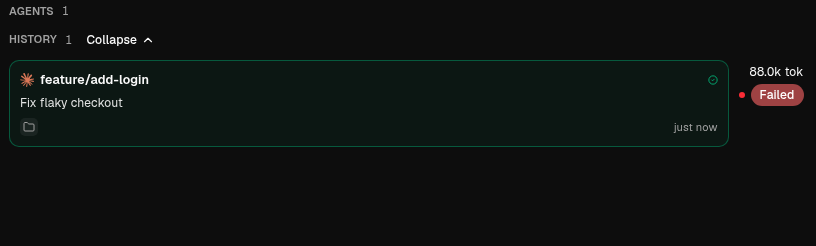
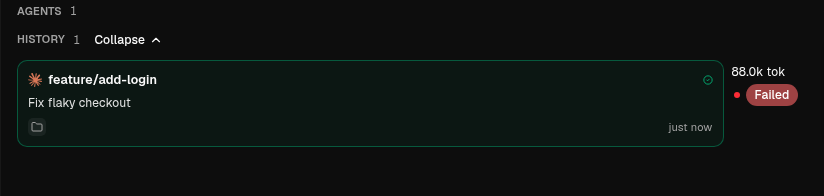
fix(task-workbench): 等宽 agent 行，pill 移到卡片上方，右列只留 token
上游 renderer 一处窄修（orca/ 层单文件）。原行布局是 `card(flex-1) + overlay(auto 宽度)`：带 workspace
pill 的行把卡片挤窄、不带的行不挤，卡片宽度参差不齐，token 文本又贴着列边、落在面板底色上。

- 未改共享组件 `AgentKanbanCard`（dashboard 也在用）：仍以它为 base，overlay 留在 renderer。
- workspace pill 改到卡片上方单独一行（`w-fit max-w-full`），行级事实不再占卡片宽度。
- 卡片右侧保留固定窄列 `w-20 shrink-0`，只放 token / 状态点 / outcome 徽标；token 加 `truncate`，
  列内左对齐，紧贴卡片（原来右对齐 + auto 宽度造成 26px 空隙与参差）。
- 截图同步重出：f1/f3/f8 + 900×700 + 1280×479 五次运行全 PASS，替换 ui/impl-agents-*、
  impl-narrow-single、impl-short-viewport；§7.4.1 限制第 2 条与 §12 从"未修缺陷"改为"已修"。

证据：定向 vitest `src/renderer/src/components/task-workbench` 4 文件 95 passed；`tsc -p
config/tsconfig.tc.web.json` exit 0；oxlint 改动文件干净；harness 5/5 PASS。
未做：真机复核（本机无 GUI），prettier 未安装（该 checkout 无 node_modules/prettier）。

diff --git a/orca/src/renderer/src/components/task-workbench/TaskWorkbenchAgentRow.tsx b/orca/src/renderer/src/components/task-workbench/TaskWorkbenchAgentRow.tsx
@@ -63,43 +63,51 @@ export function TaskWorkbenchAgentRow({ row }: { row: TaskWorkbenchRowView }): R
     : translate(rowKeys('tokens'), '{{value0}} tok', { value0: row.tokenText.text })
 
   return (
-    <div data-testid="task-workbench-agent-row" className="flex min-w-0 items-start gap-2">
-      <div className="min-w-0 flex-1">
-        <AgentKanbanCard card={row.base} now={now} onOpenTerminal={noop} />
-      </div>
-      <div className="flex shrink-0 flex-col items-end gap-1 pt-1">
-        {row.workspaceLabel ? (
-          <Badge
-            data-testid="task-workbench-agent-row-workspace-pill"
-            variant="outline"
-            className="max-w-40"
-          >
-            <span aria-hidden="true">▦</span>
-            <span className="min-w-0 truncate">{row.workspaceLabel}</span>
-          </Badge>
-        ) : null}
-        <span
-          data-testid="task-workbench-agent-row-tokens"
-          className={cn(
-            'text-xs tabular-nums',
-            row.tokenText.unavailable ? 'text-muted-foreground' : 'text-foreground'
-          )}
+    <div data-testid="task-workbench-agent-row" className="flex min-w-0 flex-col gap-1">
+      {/* Why the pill sits on its own line: the overlay is a sibling of the card,
+          so a pill inside the meta column changed every row's card width (rows
+          with a workspace pill squeezed the card, rows without one did not) and
+          the token text ended up flush against the column edge. Row-level facts
+          go above the card; only the short numeric/badge column stays beside it,
+          and that column is a fixed narrow width so all cards align. */}
+      {row.workspaceLabel ? (
+        <Badge
+          data-testid="task-workbench-agent-row-workspace-pill"
+          variant="outline"
+          className="w-fit max-w-full"
         >
-          {tokenLabel}
-        </span>
-        {row.outcome || row.sessionBoundary ? (
-          <div className="flex items-center gap-1">
-            <TaskWorkbenchAgentRowDot row={row} />
-            {row.outcome ? (
-              <Badge
-                data-testid="task-workbench-agent-row-outcome"
-                variant={OUTCOME_VARIANT[row.outcome]}
-              >
-                {translate(rowKeys(`outcome.${row.outcome}`), OUTCOME_COPY[row.outcome])}
-              </Badge>
-            ) : null}
-          </div>
-        ) : null}
+          <span aria-hidden="true">▦</span>
+          <span className="min-w-0 truncate">{row.workspaceLabel}</span>
+        </Badge>
+      ) : null}
+      <div className="flex min-w-0 items-start gap-2">
+        <div className="min-w-0 flex-1">
+          <AgentKanbanCard card={row.base} now={now} onOpenTerminal={noop} />
+        </div>
+        <div className="flex w-20 shrink-0 flex-col items-start gap-1 pt-1">
+          <span
+            data-testid="task-workbench-agent-row-tokens"
+            className={cn(
+              'max-w-full truncate text-xs tabular-nums',
+              row.tokenText.unavailable ? 'text-muted-foreground' : 'text-foreground'
+            )}
+          >
+            {tokenLabel}
+          </span>
+          {row.outcome || row.sessionBoundary ? (
+            <div className="flex min-w-0 items-center gap-1">
+              <TaskWorkbenchAgentRowDot row={row} />
+              {row.outcome ? (
+                <Badge
+                  data-testid="task-workbench-agent-row-outcome"
+                  variant={OUTCOME_VARIANT[row.outcome]}
+                >
+                  {translate(rowKeys(`outcome.${row.outcome}`), OUTCOME_COPY[row.outcome])}
+                </Badge>
+              ) : null}
+            </div>
+          ) : null}
+        </div>
       </div>
     </div>
   )

diff --git a/swarm/docs/design/task-workbench/README.md b/swarm/docs/design/task-workbench/README.md
@@ -462,7 +462,7 @@ DISPLAY=:99 ORCA_BACKGROUND_LAUNCH=1 node tests/tools/task-workbench-rendered/ru
 | 功能区 | 图 | 来源（fixture · 视口） | 这张图能证明什么 |
 | --- | --- | --- | --- |
 | Header | `ui/impl-header.png` | f1_baseline · 1440×900 | 标题、`GitHub acme/web-app open` 身份行、`web-app feature/add-login PR #431 draft` 默认工作区行、唯一主动作 `Open workspace` |
-| Agents（分组） | `ui/impl-agents-groups.png` | f3_many_workspaces_agents · 1440×1200 | `Active 4` + `Needs you 1` 两组（`History 5` 见下一张）、每行带所属工作区 pill / `N subagent` / `just now`；逐 Agent 只有 token |
+| Agents（分组） | `ui/impl-agents-groups.png` | f3_many_workspaces_agents · 1440×1200 | `Active 4` + `Needs you 1` 两组（`History 5` 见下一张）；workspace pill 在卡片上方一行，右侧窄列只有 token；`N subagent` / `just now` 在卡片内 |
 | Agents（失败轮） | `ui/impl-agents-failure.png` | f8_failure_outcome · 1440×900 | History 行带红色 `Failed` 徽标、状态点变 failed；语义上不出现 Delivered |
 | Workspaces | `ui/impl-workspaces.png` | f1_baseline · 1440×900 | 工作区卡：`web-app · feature/add-login · Default`、`local` host chip、`Create workspace` |
 | Spend | `ui/impl-spend.png` | f1_baseline · 1440×900 | `1.3M tokens · —`（有未定价模型）、逐 provider（`claude … est. $1.20` / `codex … —`），未知不写 0 |
@@ -513,10 +513,10 @@ DISPLAY=:99 ORCA_BACKGROUND_LAUNCH=1 node tests/tools/task-workbench-rendered/ru
 
 1. 这些是 **fixture 数据**的渲染：不经过 store、selector、RPC、持久化，也不切 locale（`i18n.ts` 给英文默认值）。
    它证明的是"组件按这份 view 数据会画成什么样"，不是"真机打开一个任务会看到什么"。
-2. 截图里能看到一处**当前渲染缺陷**：agent 行右侧的 token chip（以及 `Failed` 徽标）溢出在行卡片外，
-   落在列间空白上（见 `ui-agents-groups.png` 与 `ui-agents-failure.png`）。行组件是
-   `flex … card(flex-1) + overlay(shrink-0)`，overlay 比列宽时把卡片挤窄而不是自身换行；它出现在
-   F1/F3/F8 三张图里，未修。
+2. agent 行的**布局缺陷已修**（2026-11-18）：原来是 `card(flex-1) + overlay，auto 宽度`，带 workspace
+   pill 的行把卡片挤窄、不带的行不挤，卡片宽度因此参差，token 文本又贴着列边；现在 pill 单独一行放在
+   卡片上方，右侧只留一个固定窄列（token / 状态点 / outcome 徽标），所有行卡片等宽。截图是修后的渲染，
+   修前形态可从 `git show 1bfea3cc:orca/.../TaskWorkbenchAgentRow.tsx` 复看。
 3. 图里的 `All agents ▾`／`⋯` 之类**不存在**于实现：Agent 区是分组 + History 折叠，Header 只有一个动作。
    `ui/design-workbench.svg/png` 仍是 2026-11-16 的设计稿，与这些截图不是同一层证据。
 4. **Workspaces 卡上没有 token / 金额**：设计稿每张卡有 `1 agent · 412k tok · $1.20`，实现只渲染
@@ -943,7 +943,8 @@ setup 钩子"或"需要新装/重建依赖"。
 - §8 的降级结论（旧 build 保留未知 domain 并写回）来自代码阅读（`normalizeLoadedProfileState` 的 `{...parsed}`、
   `buildStateToSave` 的 `getDurableState()`），**没有跑过 round-trip 用例**；§8.9 第 1、2 条尚未执行。
 - 未确认 `orca profile state` 的 export/recovery 是否包含未知 domain。
-- 渲染缺陷：agent 行的 token chip 与结果徽标溢出卡片右侧（§7.4.1 的三张 Agents 截图可见），未修。
+- agent 行的卡片宽度参差 + token 贴列边已修（§7.4.1 限制第 2 条），修后只重跑了 f1/f3/f8 与两个降级尺寸，
+  没有真机复核。
 - P1 只有 harness 与单测证据：`tests/tools/task-workbench-rendered` 覆盖组件与降级态，`tc:web` 通过；
   **没有真机交互验收**（打开详情 → 切换 tab → 点 `[ Open workspace ]` / `[ resume ]` 的实际行为未实测），
   也没有 P1b 的独立评审回执。
